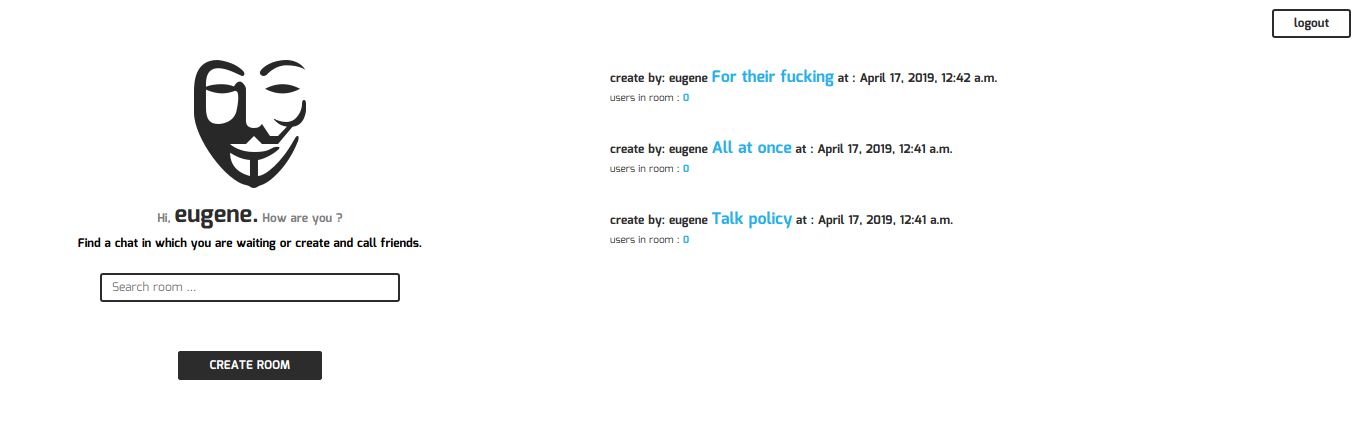
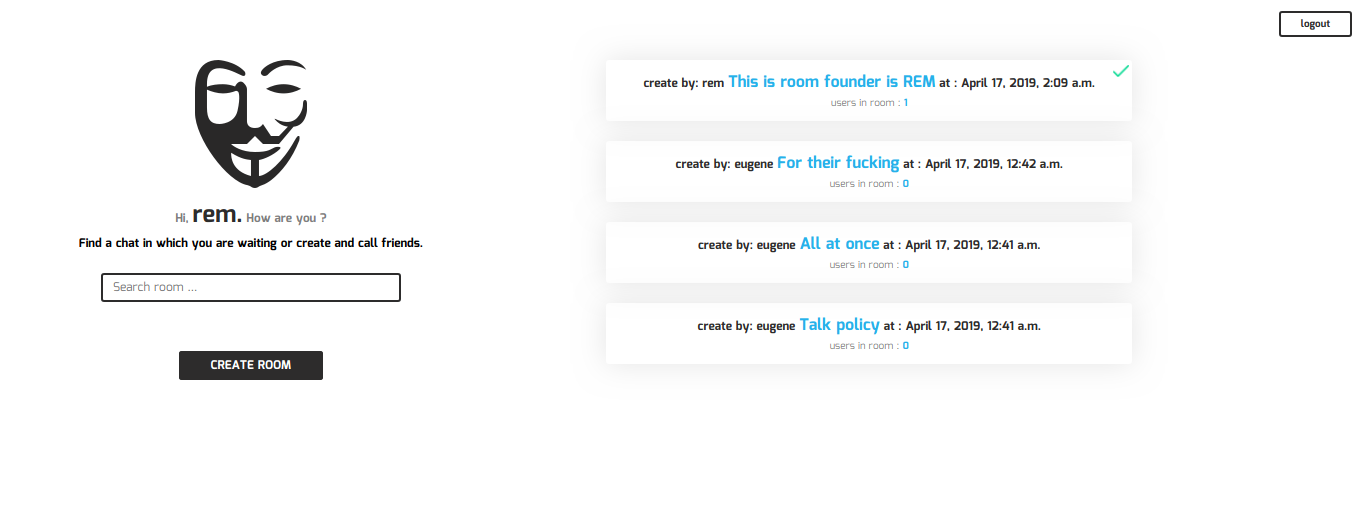
change png

diff --git a/src/apps/static/css/style.css b/src/apps/static/css/style.css
@@ -227,7 +227,7 @@
 
 .list_room .count_participants_title {
     font-size: 10px;
-    color: #292828;
+    color: grey;
 }
 
 
